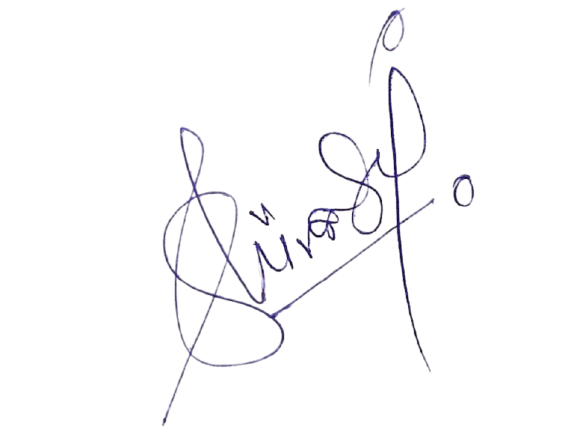
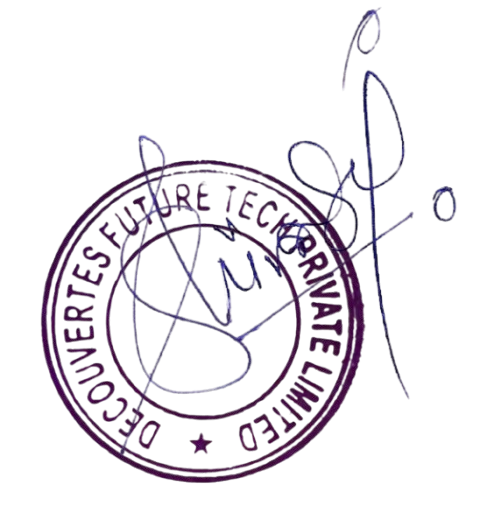
Update invoice number format display for clarity and consistency

diff --git a/src/pages/admin/Invoices.tsx b/src/pages/admin/Invoices.tsx
@@ -901,7 +901,7 @@ export default function Invoices() {
                   </SelectContent>
                 </Select>
                 <p className="text-xs text-muted-foreground">
-                  Determines invoice number format: <code>DFT/&lt;FY&gt;/&lt;CATEGORY&gt;/###</code>
+                  Determines invoice number format: <code>DFT&lt;FY&gt;&lt;CATEGORY&gt;###</code>
                   {editingInvoiceId && " (locked when editing)"}
                 </p>
               </div>